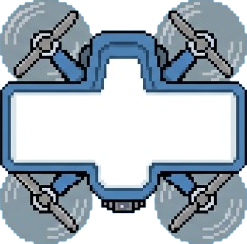
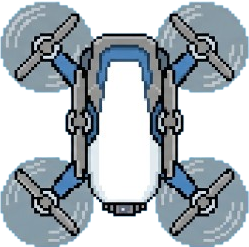
Fix duplicate colors in drones and fix A* bug for restricted zones

diff --git a/src/fly_in/pathfinder.py b/src/fly_in/pathfinder.py
@@ -69,16 +69,22 @@ def plan_cooperative_path(
                 turn_cost = 1
             next_turn = current_turn + turn_cost
 
-            # check traffic
             if next_zone.zone_type == ZoneType.BLOCKED:
                 continue
 
+            # CHECK TRAFFIC: read the reservation_table in the next_turn
             # We use chained .get() to safely read without raising a KeyError.
             # use of "reservation_table["roof3"]"
             # raise an err. if the parameters are not available
             # .get(..., "default_value") if ... not found -> def.val
-            traffic = reservation_table.get(next_name, {}).get(next_turn, 0)
-            if traffic >= next_zone.max_drones:
+            traffic_clear = True
+            for t in range(current_turn + 1, next_turn + 1):
+                # read the reservation_table for the specific turn "t"
+                traffic = reservation_table.get(next_name, {}).get(t, 0)
+                if traffic >= next_zone.max_drones:
+                    traffic_clear = False
+                    break
+            if not traffic_clear:
                 continue
 
             if next_zone.zone_type == ZoneType.PRIORITY:
@@ -98,8 +104,18 @@ def plan_cooperative_path(
                 heapq.heappush(queue, (
                     next_turn, next_penality, movement, next_name
                 ))
-                came_from[(next_name, next_turn)] = (
-                    current_name, current_turn)
+
+                # TODO need study to fully understand it
+                if turn_cost == 2:
+                    intermediate_turn = current_turn + 1
+                    came_from[(next_name, next_turn)] = (
+                        next_name, intermediate_turn)
+                    if (next_name, intermediate_turn) not in came_from:
+                        came_from[(next_name, intermediate_turn)] = (
+                            current_name, current_turn)
+                else:
+                    came_from[(next_name, next_turn)] = (
+                        current_name, current_turn)
 
     if current_name != end_name:
         return []

diff --git a/src/fly_in/drone.py b/src/fly_in/drone.py
@@ -35,9 +35,14 @@ def init_drones(zone_dict: dict[str, Zone], nb_drones: int) -> list[Drone]:
 
     color_lst = [color.value for color in ColorRGB]
 
+    if len(color_lst) >= nb_drones:
+        # random.sample(list, k: "Nbr of unique items you want to pick")
+        selected_color = random.sample(color_lst, nb_drones)
+    else:
+        selected_color = random.choice(color_lst, k=nb_drones)
     drones_lst = []
     for drone_id in range(1, nb_drones + 1):
-        color_extracted = random.choice(color_lst)
+        color_extracted = selected_color[drone_id - 1]
         new_drone = Drone(
             id=drone_id,
             current_zone=start_zone_name,
